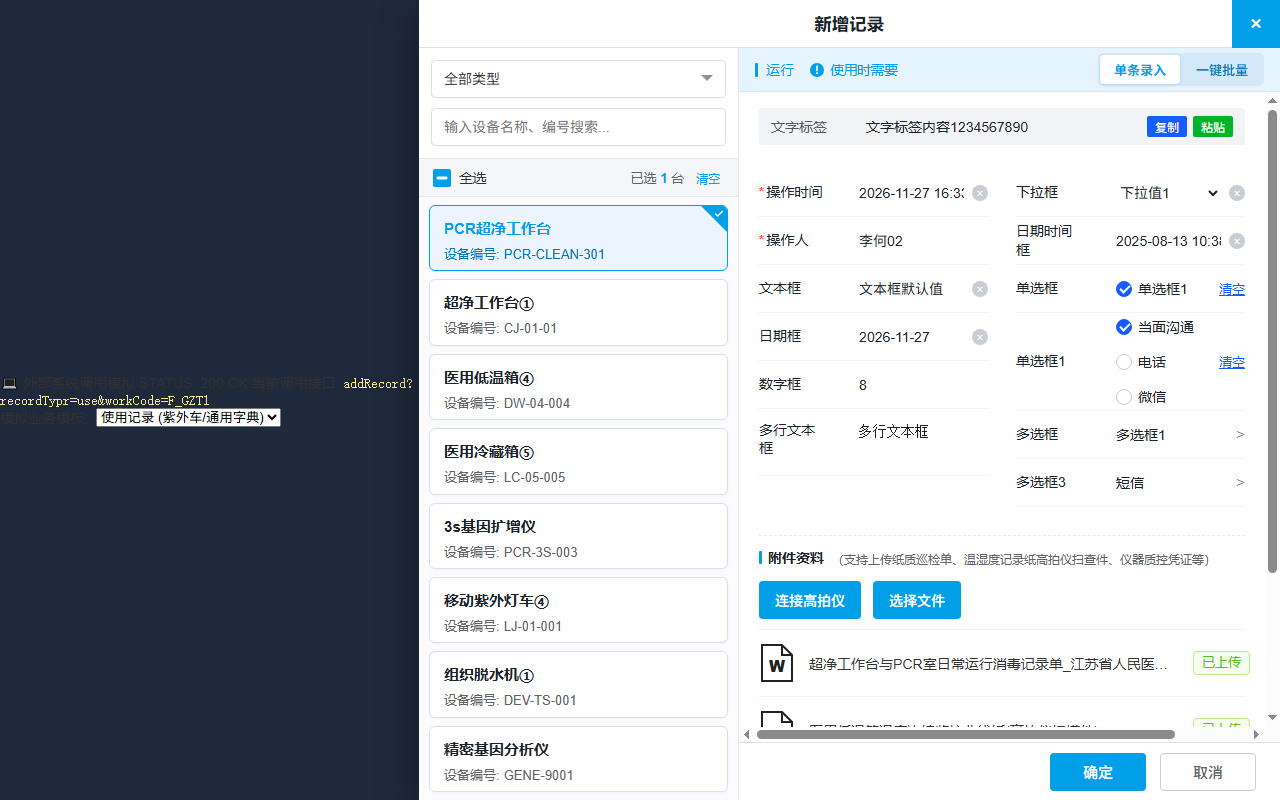
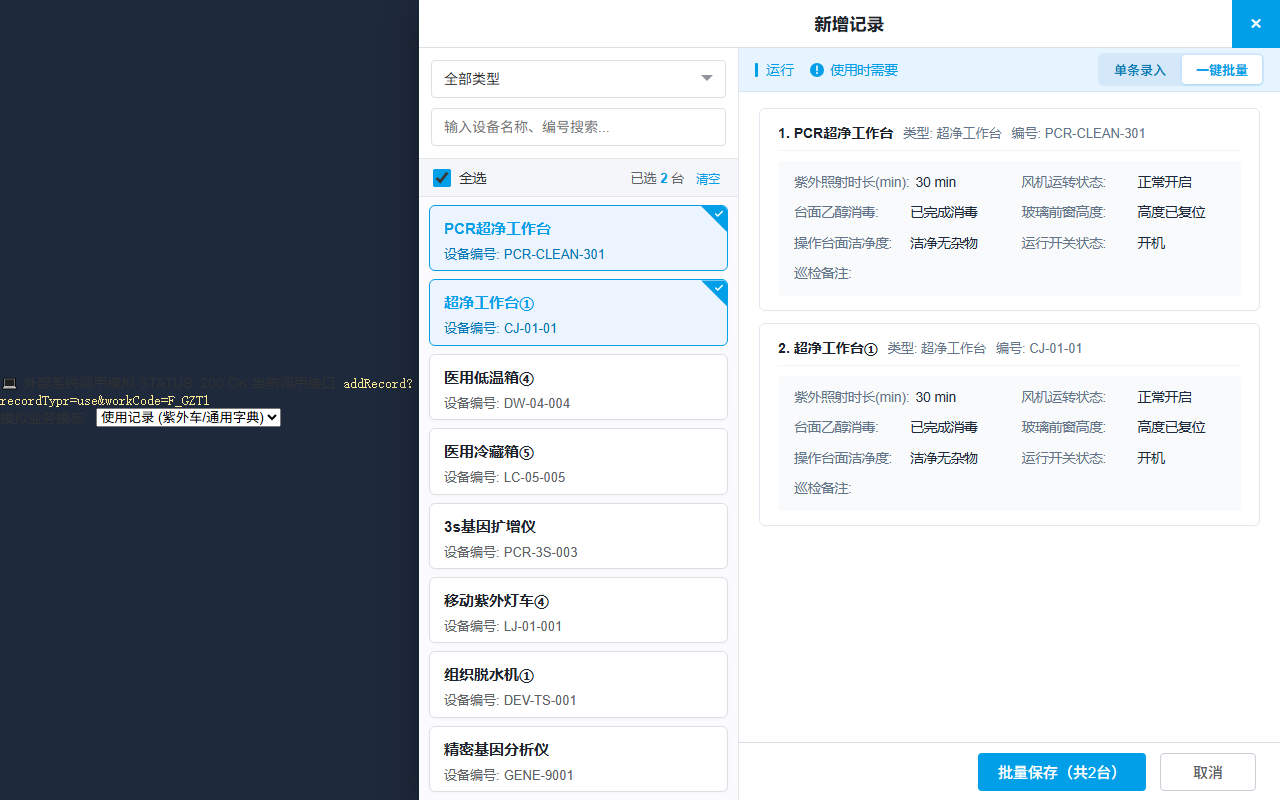
feat: 默认选中一键批量tab，移除单条录入复制粘贴及文字标签说明条

diff --git a/index.html b/index.html
@@ -1422,8 +1422,8 @@
 
                     <!-- 模式切换入口：【单条录入】 / 【一键批量】 -->
                     <div class="mode-switch-segmented" id="modeSwitchSegmented">
-                        <button type="button" class="mode-switch-btn active" id="btnModeSingle" onclick="switchEntryMode('single')">单条录入</button>
-                        <button type="button" class="mode-switch-btn" id="btnModeBatch" onclick="switchEntryMode('batch')">一键批量</button>
+                        <button type="button" class="mode-switch-btn" id="btnModeSingle" onclick="switchEntryMode('single')">单条录入</button>
+                        <button type="button" class="mode-switch-btn active" id="btnModeBatch" onclick="switchEntryMode('batch')">一键批量</button>
                     </div>
                 </div>
 
@@ -1573,7 +1573,8 @@
 
         // 当前状态
         let currentRecordType = "use_uv";
-        let selectedDeviceIds = ["DEV_PCR_301"]; // 默认选中首台超净工作台
+        let currentEntryMode = "batch"; // 默认选中【一键批量】模式
+        let selectedDeviceIds = ["DEV_PCR_301", "DEV_CJ_001"]; // 默认选中符合批量录入的同模板超净工作台设备
         let lockedTemplateType = "tpl_cleanbench"; // 锁定超净工作台运行记录模板
         let currentFilterType = "ALL";
         let searchKeyword = "";
@@ -1608,7 +1609,16 @@
 
         window.addEventListener("DOMContentLoaded", () => {
             const urlParams = new URLSearchParams(window.location.search);
-            if (urlParams.get("mode") === "batch") {
+            if (urlParams.get("mode") === "single") {
+                currentEntryMode = "single";
+                selectedDeviceIds = ["DEV_PCR_301"];
+                const btnSingle = document.getElementById("btnModeSingle");
+                const btnBatch = document.getElementById("btnModeBatch");
+                if (btnSingle && btnBatch) {
+                    btnSingle.classList.add("active");
+                    btnBatch.classList.remove("active");
+                }
+            } else {
                 currentEntryMode = "batch";
                 selectedDeviceIds = ["DEV_PCR_301", "DEV_CJ_001"];
                 const btnSingle = document.getElementById("btnModeSingle");
@@ -1845,9 +1855,6 @@
             const firstDev = mockDeviceDatabase.find(d => selectedDeviceIds.includes(d.id)) || mockDeviceDatabase[0];
             tplFreqText.textContent = firstDev.frequency || "使用时需要";
         }
-
-        // 当前录入模式：'single' (单条录入) | 'batch' (一键批量)
-        let currentEntryMode = "single";
 
         function switchEntryMode(mode) {
             currentEntryMode = mode;
@@ -2147,18 +2154,6 @@
             } else {
                 // 默认 / PCR超净工作台 (两栏 Cell 布局，1:1 真机截图组件样式)
                 container.innerHTML = `
-                    <!-- 顶部文字标签说明条 (真机截图 1:1) -->
-                    <div class="pad-banner-tag-box">
-                        <div style="display:flex; align-items:center;">
-                            <span style="color:#4e5969; font-size:14px; width:95px; flex-shrink:0;">文字标签</span>
-                            <span style="color:#1d2129; font-size:14px;">文字标签内容1234567890</span>
-                        </div>
-                        <div class="pad-tag-actions">
-                            <button type="button" class="pad-btn-copy" onclick="showToast('已复制文字标签内容', 'success')">复制</button>
-                            <button type="button" class="pad-btn-paste" onclick="showToast('已粘贴内容', 'success')">粘贴</button>
-                        </div>
-                    </div>
-
                     <!-- 两栏表单网格体系 -->
                     <div class="pad-form-grid-2col">
                         <!-- 左栏 -->

diff --git a/电脑端_新增设备记录.html b/电脑端_新增设备记录.html
@@ -1422,8 +1422,8 @@
 
                     <!-- 模式切换入口：【单条录入】 / 【一键批量】 -->
                     <div class="mode-switch-segmented" id="modeSwitchSegmented">
-                        <button type="button" class="mode-switch-btn active" id="btnModeSingle" onclick="switchEntryMode('single')">单条录入</button>
-                        <button type="button" class="mode-switch-btn" id="btnModeBatch" onclick="switchEntryMode('batch')">一键批量</button>
+                        <button type="button" class="mode-switch-btn" id="btnModeSingle" onclick="switchEntryMode('single')">单条录入</button>
+                        <button type="button" class="mode-switch-btn active" id="btnModeBatch" onclick="switchEntryMode('batch')">一键批量</button>
                     </div>
                 </div>
 
@@ -1573,7 +1573,8 @@
 
         // 当前状态
         let currentRecordType = "use_uv";
-        let selectedDeviceIds = ["DEV_PCR_301"]; // 默认选中首台超净工作台
+        let currentEntryMode = "batch"; // 默认选中【一键批量】模式
+        let selectedDeviceIds = ["DEV_PCR_301", "DEV_CJ_001"]; // 默认选中符合批量录入的同模板超净工作台设备
         let lockedTemplateType = "tpl_cleanbench"; // 锁定超净工作台运行记录模板
         let currentFilterType = "ALL";
         let searchKeyword = "";
@@ -1608,7 +1609,16 @@
 
         window.addEventListener("DOMContentLoaded", () => {
             const urlParams = new URLSearchParams(window.location.search);
-            if (urlParams.get("mode") === "batch") {
+            if (urlParams.get("mode") === "single") {
+                currentEntryMode = "single";
+                selectedDeviceIds = ["DEV_PCR_301"];
+                const btnSingle = document.getElementById("btnModeSingle");
+                const btnBatch = document.getElementById("btnModeBatch");
+                if (btnSingle && btnBatch) {
+                    btnSingle.classList.add("active");
+                    btnBatch.classList.remove("active");
+                }
+            } else {
                 currentEntryMode = "batch";
                 selectedDeviceIds = ["DEV_PCR_301", "DEV_CJ_001"];
                 const btnSingle = document.getElementById("btnModeSingle");
@@ -1845,9 +1855,6 @@
             const firstDev = mockDeviceDatabase.find(d => selectedDeviceIds.includes(d.id)) || mockDeviceDatabase[0];
             tplFreqText.textContent = firstDev.frequency || "使用时需要";
         }
-
-        // 当前录入模式：'single' (单条录入) | 'batch' (一键批量)
-        let currentEntryMode = "single";
 
         function switchEntryMode(mode) {
             currentEntryMode = mode;
@@ -2147,18 +2154,6 @@
             } else {
                 // 默认 / PCR超净工作台 (两栏 Cell 布局，1:1 真机截图组件样式)
                 container.innerHTML = `
-                    <!-- 顶部文字标签说明条 (真机截图 1:1) -->
-                    <div class="pad-banner-tag-box">
-                        <div style="display:flex; align-items:center;">
-                            <span style="color:#4e5969; font-size:14px; width:95px; flex-shrink:0;">文字标签</span>
-                            <span style="color:#1d2129; font-size:14px;">文字标签内容1234567890</span>
-                        </div>
-                        <div class="pad-tag-actions">
-                            <button type="button" class="pad-btn-copy" onclick="showToast('已复制文字标签内容', 'success')">复制</button>
-                            <button type="button" class="pad-btn-paste" onclick="showToast('已粘贴内容', 'success')">粘贴</button>
-                        </div>
-                    </div>
-
                     <!-- 两栏表单网格体系 -->
                     <div class="pad-form-grid-2col">
                         <!-- 左栏 -->

diff --git a/README.md b/README.md
@@ -53,19 +53,19 @@
 4. **底栏唤出**：底部操作按钮栏即刻完整浮现【确定】与【取消】按钮。
 
 #### 2.3.4 【单条录入】与【一键批量】全两栏布局与真机组件规范
-系统在横幅右侧提供模式切换分段控制器（**【单条录入】** 与 **【一键批量】**），两种模式统一采用**两栏布局（2-Column Grid）**：
+系统在横幅右侧提供模式切换分段控制器（**【单条录入】** 与 **【一键批量】**），**页面初始化默认选中【一键批量】Tab**，两种模式统一采用**两栏布局（2-Column Grid）**：
 1. **单条录入两栏真机组件规范**：
    - **两栏排布**：字段按业务逻辑分为左右两栏，充分利用宽屏横向空间；
    - **必填红色星号**：所有必填项标签前面均带有显眼的红色星号（`* `）；
    - **扁平输入框**：文本框、日期框、数字框均采用极简无厚边框设计，内容右侧带浅灰圆形清除叉（`×`）；
    - **圆形原生单选**：单选组采用真机原生圆形按钮（选中为蓝底白勾），选项文本紧随圆圈无胶囊卡片背景；行末靠右对齐展示**蓝色文字带下划线**的【清空】操作；
    - **多选展示**：右侧展示当前选中值文本，最右端带向右折叠箭头（`>`）；
-   - **顶部说明条**：顶部保留真机浅灰底文字标签说明栏，支持【复制】与【粘贴】快捷操作；
-2. **【一键批量】两栏只读看板规范**：
+   - **界面极简**：去除非业务必须的顶部文字标签说明条与复制/粘贴按钮，直接沉浸呈现纯粹的运行参数表单项；
+2. **【一键批量】两栏只读看板规范（默认激活态）**：
    - **两栏只读清单**：已选设备的组件与对应合规默认值按两栏排版展示，纯只读无输入框；
    - **为空字段直接置空**：默认值为空的字段直接留白，不展示“为空”字样；
    - **去除多余装饰**：不展示状态徽标、无多余大横幅，字段无彩色高亮；
-    - **纯文本底栏按钮**：底栏按钮无图标，纯文本展示为 **【批量保存（共N台）】**。
+   - **纯文本底栏按钮**：底栏按钮无图标，纯文本展示为 **【批量保存（共N台）】**。
 3. **模式切换设备联动收敛规则**：
    - 当从【一键批量】切换回【单条录入】时，若此前处于多选状态，系统自动收敛为**仅选中最前面的一个设备**，杜绝多选残留并立即联动刷新右侧精细两栏表单。
 
